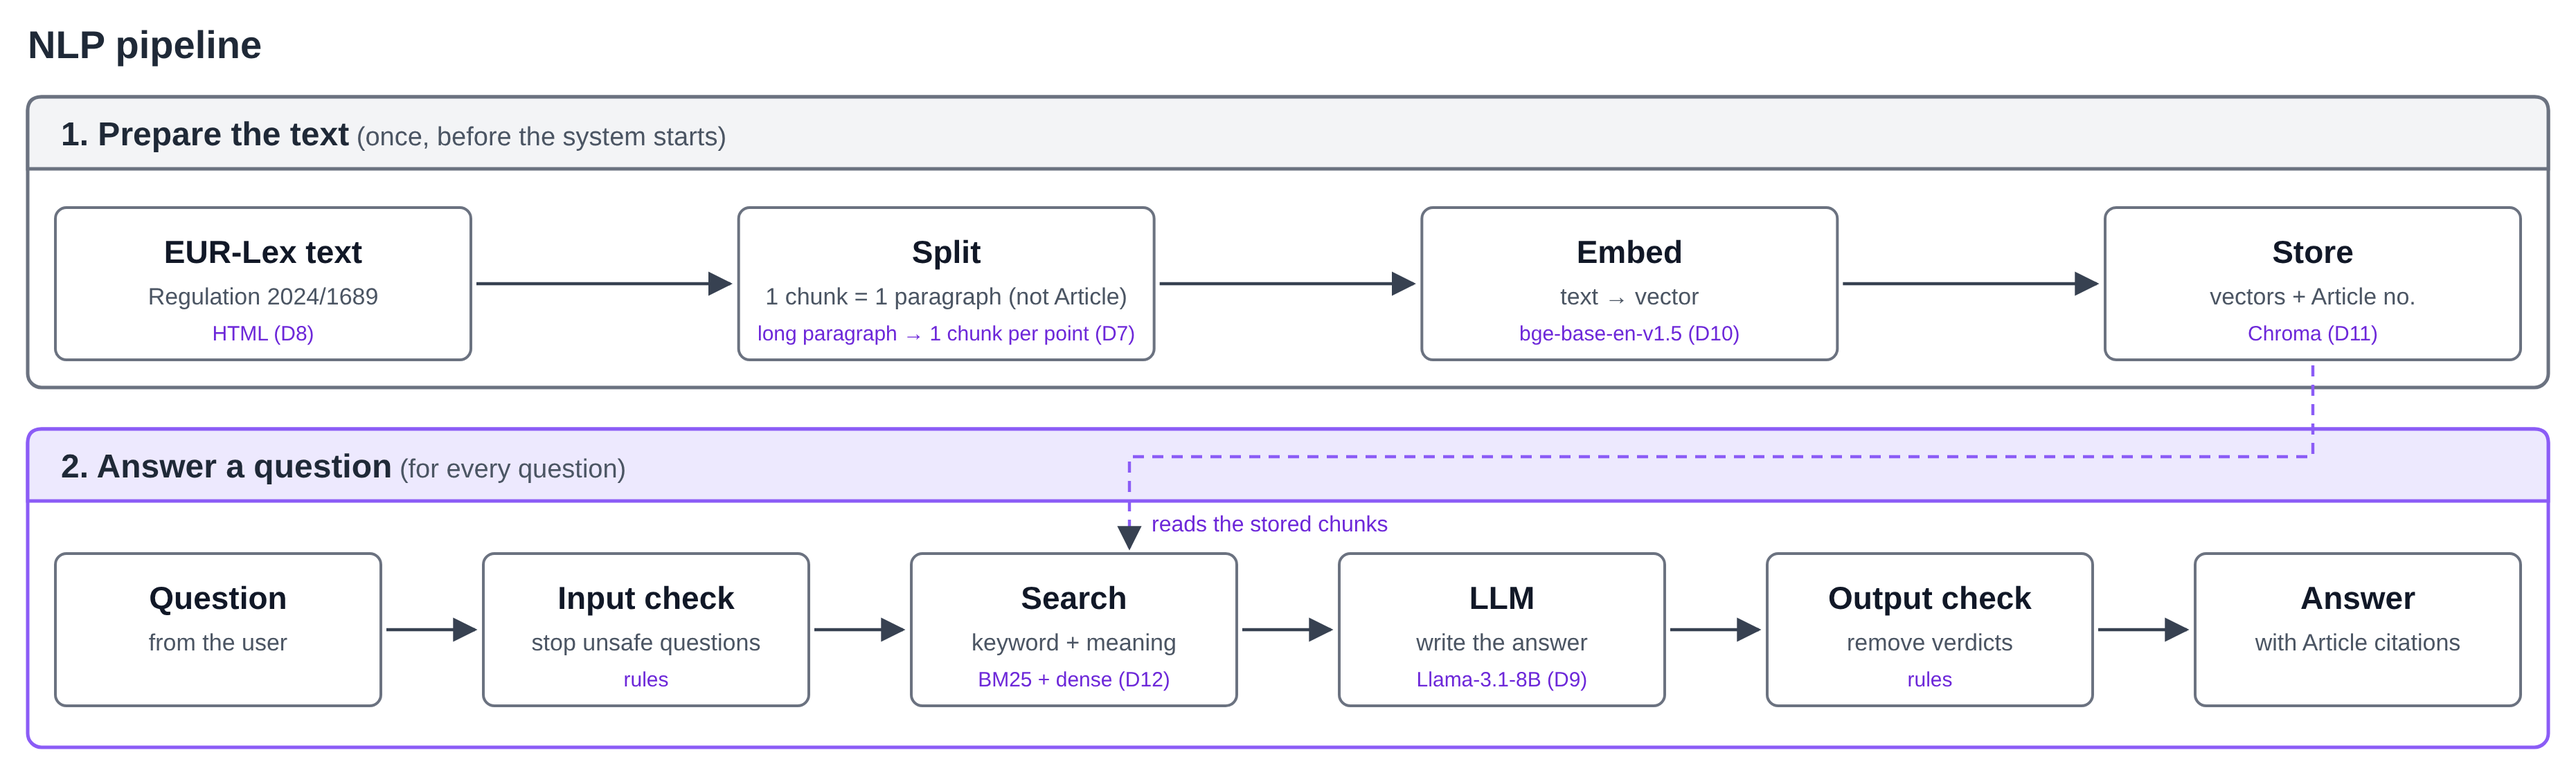
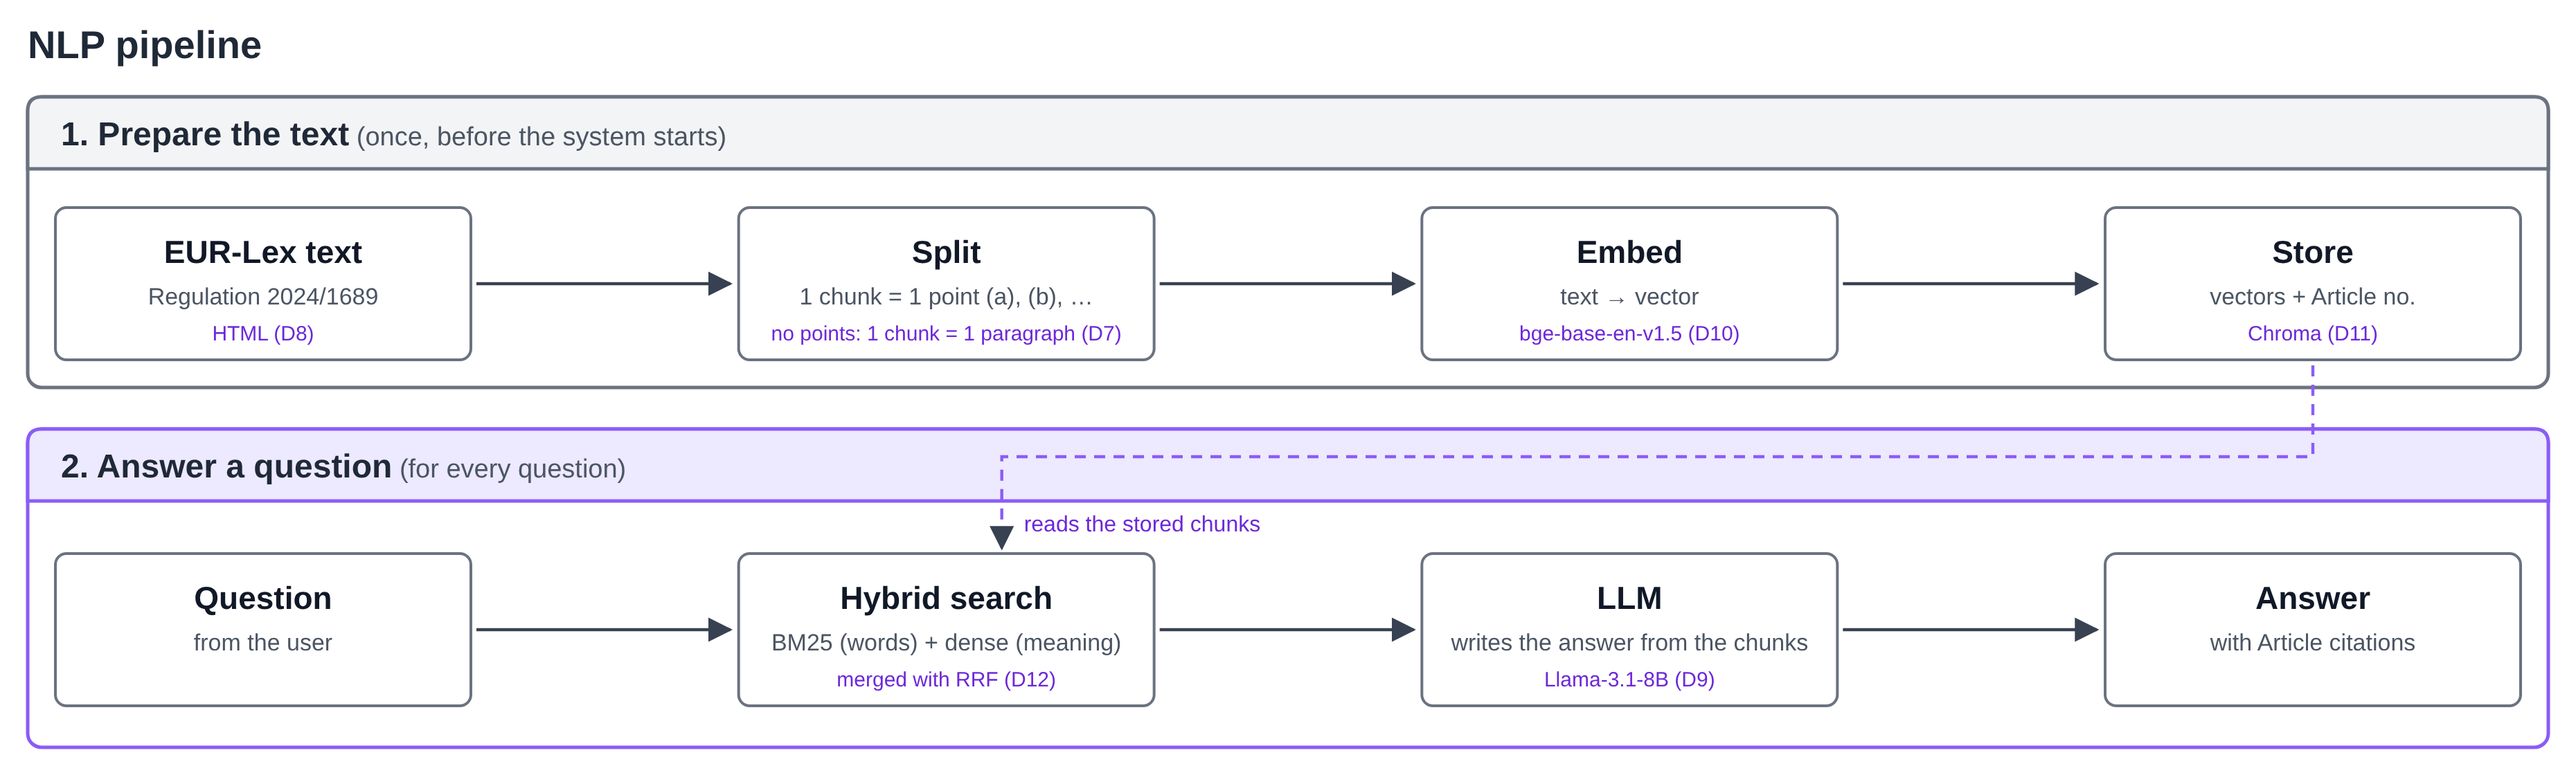
KAN-30: NLP diagram and glossary; chunk rule; NLP evaluation metrics
- Chunk rule stated plainly: one chunk per point; a paragraph without
  points is one chunk; an Article is never one chunk.
- NLP diagram: input and output checks removed (not NLP); search box
  now "Hybrid search: BM25 (words) + dense (meaning), RRF".
- Glossary under the diagram (chunk, embedding, cosine, dense, BM25,
  hybrid, RRF, top-k).
- Evaluation: NLP metrics (Recall@k, citation match, no-RAG baseline).

Claude-Session: https://claude.ai/code/session_011F2u2YthuTeJB4vLanfkvy

diff --git a/Markdown Template/11-system-architecture-design-document.md b/Markdown Template/11-system-architecture-design-document.md
@@ -90,6 +90,23 @@ flowchart LR
 
 Diagram source: [nlp-pipeline-v1.svg](../docs/images/nlp-pipeline-v1.svg)
 
+How to read the diagram:
+
+| Term | Meaning in ELIZA |
+|---|---|
+| Chunk | One piece of the regulation that is stored and searched. One point (a), (b), ... is one chunk; a paragraph without points is one chunk. An Article is never one chunk. Example: Article 6(2) is one chunk; Article 6(3) gives four chunks, 6(3)(a) to 6(3)(d). |
+| Metadata | The Article, paragraph and point numbers and the version date stored with each chunk. The citation in the answer is built from it. |
+| Embedding (bge-base-en-v1.5) | Turns a text into a vector (a list of 768 numbers). Texts with a similar meaning get similar vectors. |
+| Vector store (Chroma) | Keeps the vector, the text and the metadata of every chunk, and returns the closest chunks to a question. |
+| Cosine | The measure of how similar two vectors are (the angle between them). bge-base-en-v1.5 is trained for cosine similarity. |
+| Dense search | The question is turned into a vector, and the chunks with the closest vectors are returned. Finds the same meaning in other words, for example "a tool that calculates grades". |
+| BM25 | Keyword search: scores chunks by the words they share with the question. Finds exact terms, for example "Article 6(3)" or "profiling". |
+| Hybrid search | Dense search and BM25 together, so that neither the meaning nor the exact Article numbers and terms are missed. |
+| RRF (Reciprocal Rank Fusion) | Merges the two result lists into one by rank. A chunk ranked high in both lists comes first. It needs no weights; k = 60 is the usual constant. |
+| Top-k | How many chunks are given to the LLM, for example 5. Chosen by Recall@k on the `dev` split. |
+
+The input check (before the search) and the output check (after the LLM) are rule-based safety checks; they are not part of the NLP pipeline and are described with the rest of the system.
+
 The knowledge base has one source: the consolidated text of Regulation (EU) 2024/1689 of 27/07/2026 (CELEX 02024R1689-20260727), downloaded once from EUR-Lex and stored with its file hash in the source manifest (deliverable D3). Only the in-scope provisions are used (C-01): Annex III point 3, Article 5(1)(f), Article 6, Articles 8–15, Article 16, Article 49, Article 50(1) and Article 113, together with the definitions in Article 3 that they rely on.
 
 The text is **parsed by its own structure; there is no separate chunking step.** The regulation is already divided into short, self-contained units: Articles, numbered paragraphs, and points (a), (b), ... in Articles and Annexes. Parsing follows these headings, and each unit becomes one chunk. Chunk size and overlap are therefore not tuned.
@@ -98,7 +115,7 @@ The text is **parsed by its own structure; there is no separate chunking step.**
 |---|---|---|
 | 1. Load | Read the stored source file (EUR-Lex HTML; the PDF is the fallback if the HTML does not mark the units, see D8). | Raw text |
 | 2. Clean | Remove page headers and footers, amendment markers (▼B, ▼M1) and soft hyphens; join lines broken inside a sentence. | Clean text |
-| 3. Parse | Find the headings in order: `Article N` and its title, numbered paragraphs (`1.`, `2.`, ...), points (`(a)`, `(b)`, ...), and `ANNEX III` with its numbered areas and points. A unit runs from one heading to the next. One numbered paragraph of an Article is one chunk (not the whole Article); a long paragraph with points (a), (b), ... (for example Article 6(3)) is split into one chunk per point. | One chunk per Article paragraph or Annex point |
+| 3. Parse | Find the headings in order: `Article N` and its title, numbered paragraphs (`1.`, `2.`, ...), points (`(a)`, `(b)`, ...), and `ANNEX III` with its numbered areas and points. A unit runs from one heading to the next. One numbered paragraph of an Article is one chunk (not the whole Article); a paragraph with points (a), (b), ... (for example Article 6(3)) is split into one chunk per point. | One chunk per Article paragraph or Annex point |
 | 4. Label | Attach metadata to each chunk: `article` or `annex`, `paragraph`, `point`, the Article or Annex title, the chapter, and `version_date` = 2026-07-27. The citation shown to the user (for example `Article 6(3)(a)`) is built from these fields. | Chunks with metadata |
 | 5. Add heading text | Prefix each chunk with its place in the text, for example `Article 6 – Classification rules for high-risk AI systems – paragraph 3:`, so that a chunk such as "(a) the AI system is intended to perform a narrow procedural task;" still makes sense on its own. | Text that is embedded |
 | 6. Check | Compare the chunks with the provision list of deliverable D3: every in-scope provision is present, and no chunk lacks an identifier (deliverable D5 acceptance criteria). Counts and the share of chunks corrected by hand go to `docs/eval/preprocessing.md`. | Chunk file + report |
@@ -118,7 +135,7 @@ Models used as-is go in the AI SBOM. Write a model card (12-model-cards/, follow
 
 | Stage | Parameter | Value | Decision |
 |---|---|---|---|
-| Chunking | Chunk size, overlap | No size-based chunking: one chunk per Article paragraph (not per Article) or Annex point; a long paragraph with points (a), (b), ... (for example Article 6(3)) is split into one chunk per point; heading text in front; identifier and version date as metadata | D7, D8 |
+| Chunking | Chunk size, overlap | No size-based chunking: one chunk per Article paragraph (not per Article) or Annex point; a paragraph with points (a), (b), ... (for example Article 6(3)) is split into one chunk per point; heading text in front; identifier and version date as metadata | D7, D8 |
 | Embedding | Model and version | `BAAI/bge-base-en-v1.5` (768 dimensions), via `sentence-transformers` | D10 |
 | Vector store | Index type, distance metric | Chroma, saved on disk; cosine distance | D11 |
 | Retrieval | Top-k, hybrid search, reranker | E1 baseline: dense top-k. E2: BM25 (`rank_bm25`) + dense, merged with Reciprocal Rank Fusion (k = 60). Top-k chosen by Recall@k on the `dev` split (candidates 3, 5, 8). No reranker | D12 |
@@ -127,6 +144,16 @@ Models used as-is go in the AI SBOM. Write a model card (12-model-cards/, follow
 ### Evaluation
 
 <!-- Metrics, the baseline you compare against, and how validation data is kept separate from test data. ISO/IEC 5338: 6.4.11 Verification process. -->
+
+NLP part (the full evaluation plan is added by the evaluation owner):
+
+| What is measured | Metric | Experiment |
+|---|---|---|
+| Retrieval finds the right provision | Recall@k: share of `dev` questions whose gold source is among the top-k chunks (k = 3, 5, 8) | E1 dense, E2 hybrid |
+| Answer cites only retrieved provisions | Citation match: every cited Article/Annex ID is one of the retrieved chunks | E1, E2 |
+| What retrieval adds | The same LLM and prompt with and without retrieved chunks (no-RAG baseline) | E1 |
+
+All tuning (top-k, dense versus hybrid, point granularity) uses only the `dev` split; the `test` split is not used for these choices.
 
 ### Interfaces
 
@@ -168,7 +195,7 @@ Copy the block below for each decision.
 | Sentence splitting without structure | Keeps sentences whole | Loses the Article and point numbers needed for citations |
 | **One chunk per Article paragraph or Annex point** | One clear identifier per chunk; nothing to tune; the gold sources of the evaluation set use the same units | Needs a parser for the headings; some units are long, some very short |
 
-**Decision:** One chunk per Article paragraph or Annex point, with the heading text in front and the identifier and version date as metadata. An Article is not one chunk: Article 6, for example, gives one chunk per paragraph. A long paragraph with points (a), (b), ... is split into one chunk per point, so Article 6(3)(a) and 6(3)(b) are separate chunks.
+**Decision:** One chunk per Article paragraph or Annex point, with the heading text in front and the identifier and version date as metadata. An Article is not one chunk: Article 6, for example, gives one chunk per paragraph. A paragraph with points (a), (b), ... is split into one chunk per point, so Article 6(3)(a) and 6(3)(b) are separate chunks.
 
 **Why:** Citations come directly from the metadata, and retrieval can be scored per provision. Splitting at natural boundaries also worked better than fixed-size splitting on legal text in LegalBench-RAG [3].
 
@@ -289,7 +316,7 @@ Copy the block below for each decision.
 
 NLP part:
 
-- **Granularity of points:** long paragraphs are split at their points (D7); whether short points are better merged into their paragraph is settled by Recall@k on the `dev` split in E1.
+- **Granularity of points:** paragraphs with points are split into one chunk per point (D7); whether short points are better merged into their paragraph is settled by Recall@k on the `dev` split in E1.
 - **Hybrid retrieval:** whether BM25 improves Recall@k over dense search (E1 versus E2, Sprint 2).
 - **Answer time on CPU:** answer time of Llama-3.1-8B on the deployment CPU, measured in Sprint 2; if it is too slow, Phi-4-mini-instruct is used (D9, R-16).
 - **Checks:** personal-data rules and the citation-ID check (KAN-49).
